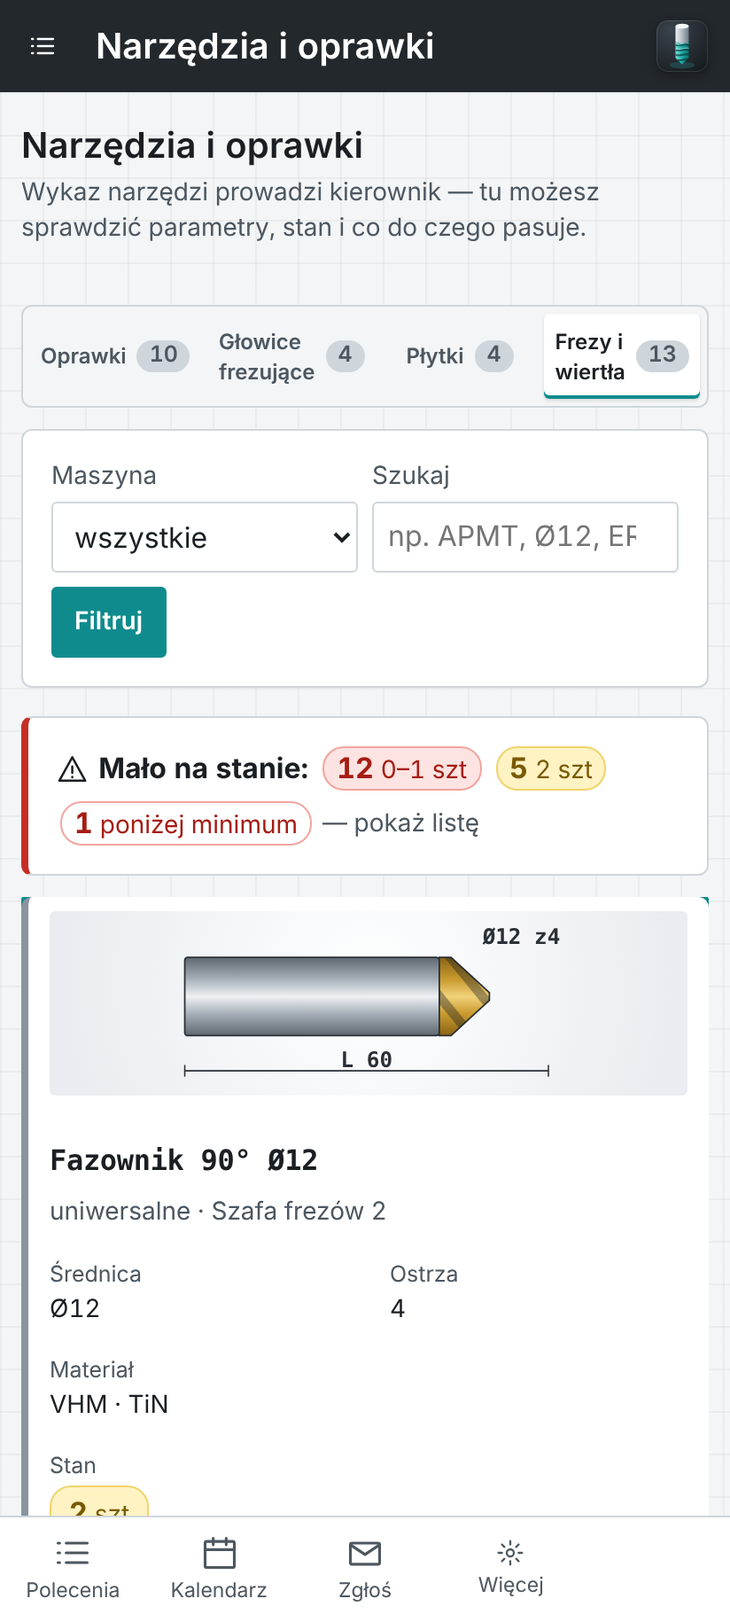
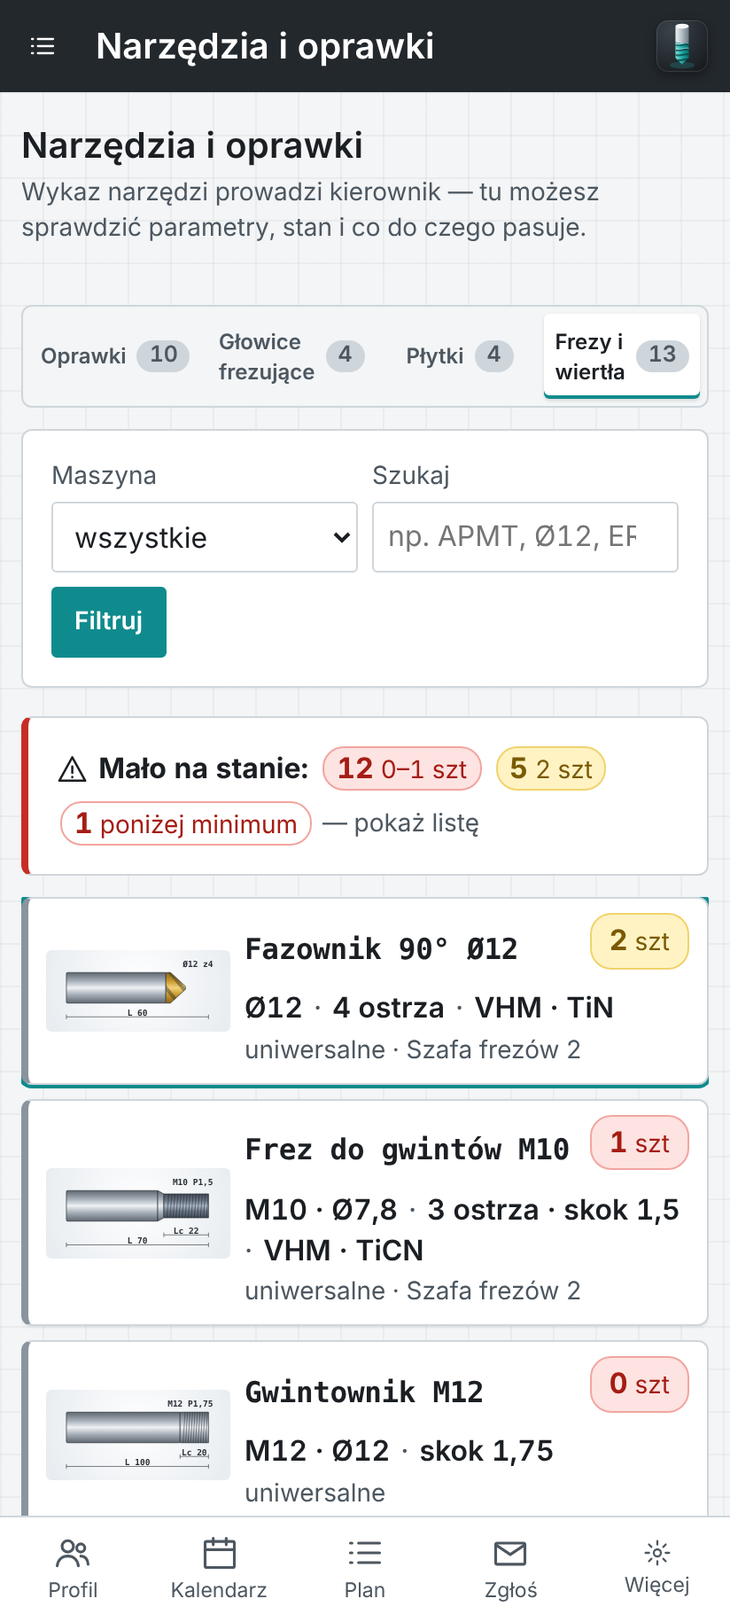
Narzędzia: zwarty wiersz (stan w rogu, dane w jednej linii); kolorowe symbole rodzaju zgłoszeń u programisty i kierownika (0.16.4)
Claude-Session: https://claude.ai/code/session_01Mgo9RDb6yKEqWF3PSmGbbJ

diff --git a/public/app.css b/public/app.css
@@ -620,22 +620,8 @@ figure.chart3d { max-width: none; } figure.chart3d .chart-box svg { max-height: 
 
 /* ---- Narzędzia: widok katalogowy (wiersz = narzędzie) ---- */
 .tl-cat-wrap { overflow-x: auto; }
-.tl-table { width: 100%; border-collapse: separate; border-spacing: 0 6px; font-size: var(--fs-sm); }
-.tl-table thead th { text-align: left; font-weight: 600; color: var(--c-ink-soft); font-size: var(--fs-xs); text-transform: uppercase; letter-spacing: .04em; padding: 0 var(--sp-3); }
-.tl-table tbody tr { background: var(--c-surface); cursor: pointer; box-shadow: 0 1px 2px rgba(0,0,0,.08); }
-.tl-table tbody tr:hover, .tl-table tbody tr:focus-visible { box-shadow: 0 0 0 2px var(--m-mid, var(--c-accent)); outline: none; }
-.tl-table tbody td { padding: var(--sp-2) var(--sp-3); vertical-align: middle; border-top: 1px solid var(--c-line); border-bottom: 1px solid var(--c-line); }
-.tl-table tbody td:first-child { border-left: 4px solid var(--m-mid, #8a949e); border-radius: var(--r-md) 0 0 var(--r-md); }
-.tl-table tbody td:last-child { border-right: 1px solid var(--c-line); border-radius: 0 var(--r-md) var(--r-md) 0; }
-.tl-table tr.tl-off { opacity: .55; }
-.tl-c-pic { width: 1%; }
 .tl-pic-row { display: flex; align-items: center; justify-content: center; padding: 4px 8px; border-radius: var(--r-sm); background: radial-gradient(circle at 50% 40%, #ffffff, #e9edf1 90%); color: #2a3036; }
-.tl-table.k-frez .tl-pic-row { min-width: 270px; }
 .tl-pic-row svg.tool-svg { height: auto; max-height: 96px; display: block; }
-.tl-table.k-oprawka .tl-pic-row svg { max-height: 92px; }
-.tl-c-name b { display: block; font-size: var(--fs-md); }
-.tl-c-name span { display: block; }
-.tl-c-st { text-align: right; white-space: nowrap; width: 1%; }
 .st { display: inline-flex; align-items: baseline; gap: 4px; padding: 3px 10px; border-radius: 12px; font-size: var(--fs-sm); background: #e5f4ea; color: #1d6b3a; border: 1px solid #b8e0c6; }
 .st b { font-size: 1.15em; }
 .st.st-red { background: #fde3e1; color: #a51d14; border-color: #f2a59f; }
@@ -657,22 +643,12 @@ figure.chart3d { max-width: none; } figure.chart3d .chart-box svg { max-height: 
 .tl-mini svg.tool-svg-h { max-height: 60px; }
 /* telefon: wiersz katalogu jako karta — rysunek na górze, dane w dwóch kolumnach, stan na końcu */
 @media (max-width: 760px) {
-  .tl-table, .tl-table tbody, .tl-table tr, .tl-table td { display: block; }
-  .tl-table thead { display: none; }
-  .tl-table tbody tr { display: grid; grid-template-columns: 1fr 1fr; border-radius: var(--r-md); border-left: 4px solid var(--m-mid, #8a949e); margin-bottom: var(--sp-2); }
-  .tl-table tbody td, .tl-table tbody td:first-child, .tl-table tbody td:last-child { border: 0; border-radius: 0; }
-  .tl-table td.tl-c-pic, .tl-table td.tl-c-name { grid-column: 1 / -1; width: auto; }
-  .tl-table.k-frez .tl-pic-row { min-width: 0; }
-  .tl-table td[data-l]:not(.tl-c-name)::before { content: attr(data-l); display: block; font-size: var(--fs-xs); color: var(--c-ink-soft); }
-  .tl-table td.tl-c-st { grid-column: 1 / -1; text-align: left; width: auto; border-top: 1px solid var(--c-line); }
 }
 details.tl-low { display: block; }
 details.tl-low summary { cursor: pointer; display: flex; flex-wrap: wrap; gap: 6px; align-items: center; list-style: none; }
 details.tl-low summary::-webkit-details-marker { display: none; }
 .tl-low-list { display: flex; flex-wrap: wrap; gap: 4px 10px; margin-top: var(--sp-2); }
 .st.st-min { background: transparent; color: #a51d14; border-color: #f2a59f; }
-.tl-c-name .tl-open { display: block; font-size: var(--fs-md); font-weight: 700; color: var(--c-ink); text-align: left; padding: 0; }
-.tl-c-name .tl-open:hover { color: var(--c-accent); }
 :root[data-theme="dark"] .st.st-min { background: transparent; color: #ffb4ad; border-color: #7a2a24; }
 :root[data-theme="dark"] .st-min { color: #ffb4ad; }
 @media (prefers-color-scheme: dark) {
@@ -701,21 +677,8 @@ details.tl-low summary::-webkit-details-marker { display: none; }
 :root[data-theme="dark"] .emp-balance.due b { color: #ffb066; }
 @media (prefers-color-scheme: dark) { :root:not([data-theme="light"]) .emp-balance.due b { color: #ffb066; } }
 /* katalog: dane wyraźniej niż rysunek */
-.tl-table tbody td[data-l]:not(.tl-c-name):not(.tl-c-st) { font-size: var(--fs-md); font-weight: 600; font-variant-numeric: tabular-nums; }
-.tl-table.k-frez .tl-pic-row { min-width: 196px; }
 .tl-pic-row svg.tool-svg { max-height: 76px; }
-.tl-table.k-oprawka .tl-pic-row svg { max-height: 80px; }
-.tl-c-name .tl-open { font-size: 1.05rem; }
-@media (max-width: 760px) {
-  /* telefon: wiersz poziomo — mały rysunek z lewej, dane z prawej */
-  .tl-table tbody tr { grid-template-columns: 96px 1fr 1fr; column-gap: 8px; align-items: start; }
-  .tl-table td.tl-c-pic { grid-column: 1; grid-row: 1 / span 4; padding-right: 0; }
-  .tl-table td.tl-c-name { grid-column: 2 / -1; }
-  .tl-table td.tl-c-st { grid-column: 2 / -1; border-top: 0; padding-top: 0; }
-  .tl-table .tl-pic-row { min-width: 0 !important; padding: 2px; }
-  .tl-table .tl-pic-row svg.tool-svg { width: 100%; max-height: 120px; }
-  .tl-table.k-frez td.tl-c-pic { grid-row: 1 / span 3; }
-}
+
 
 /* ---- Kalendarz: okienka szczegółów ---- */
 .ev-open { cursor: pointer; }
@@ -760,3 +723,37 @@ fieldset.lv-pick legend { font-size: var(--fs-sm); color: var(--c-ink-soft); mar
 .lv-opt.off { opacity: .45; cursor: not-allowed; filter: grayscale(.7); }
 .lv-opt.off .lv-txt .small { color: #a51d14; font-weight: 600; }
 .leave-sum.bad { border-left-color: #c62e25; background: color-mix(in srgb, #c62e25 10%, var(--c-surface)); }
+
+/* ---- Narzędzia: zwarty wiersz katalogowy (stan w prawym górnym rogu, dane w jednej linii) ---- */
+.tl-list { display: grid; grid-template-columns: repeat(auto-fill, minmax(min(100%, 520px), 1fr)); gap: var(--sp-2); }
+.tl-row { display: grid; grid-template-columns: auto 1fr; gap: var(--sp-3); align-items: center; padding: var(--sp-2) var(--sp-3); background: var(--c-surface);
+  border: 1px solid var(--c-line); border-left: 4px solid var(--m-mid, #8a949e); border-radius: var(--r-md); cursor: pointer; box-shadow: 0 1px 2px rgba(0,0,0,.06); min-width: 0; }
+.tl-row:hover { box-shadow: 0 0 0 2px var(--m-mid, var(--c-accent)); }
+.tl-row.tl-off { opacity: .55; }
+.tl-row .tl-pic-row { min-width: 0 !important; }
+.tl-list.k-frez .tl-pic-row { width: 176px; }
+.tl-list.k-glowica .tl-pic-row { width: 116px; }
+.tl-list.k-oprawka .tl-pic-row { width: 52px; }
+.tl-list.k-plytka .tl-pic-row { width: 64px; }
+.tl-row .tl-pic-row svg.tool-svg { width: 100%; height: auto; max-height: 70px; }
+.tl-list.k-oprawka .tl-pic-row svg.tool-svg { max-height: 84px; }
+.tl-main { display: grid; gap: 2px; min-width: 0; }
+.tl-top { display: flex; align-items: flex-start; justify-content: space-between; gap: var(--sp-2); }
+.tl-top .tl-open { font-size: 1.02rem; font-weight: 700; color: var(--c-ink); text-align: left; padding: 0; min-width: 0; overflow-wrap: anywhere; }
+.tl-top .st { flex: none; }
+.tl-spec { display: flex; flex-wrap: wrap; gap: 0 6px; font-weight: 600; font-variant-numeric: tabular-nums; }
+.tl-spec i { font-style: normal; color: var(--c-ink-soft); font-weight: 400; }
+.tl-top .tl-stock-wrap { display: grid; justify-items: end; gap: 2px; flex: none; }
+@media (max-width: 520px) {
+  .tl-row { gap: var(--sp-2); padding: 8px 10px; }
+  .tl-list.k-frez .tl-pic-row { width: 104px; }
+  .tl-list.k-glowica .tl-pic-row { width: 84px; }
+}
+/* symbol zgłoszenia w kolorze rodzaju */
+.req-cell { display: flex; gap: 10px; align-items: flex-start; }
+.req-badge { display: inline-flex; flex-direction: column; align-items: center; gap: 2px; flex: none; }
+.req-badge .kind-ico { display: inline-flex; align-items: center; justify-content: center; width: 34px; height: 34px; border-radius: 10px;
+  background: linear-gradient(160deg, color-mix(in srgb, var(--tone, #888) 30%, #fff), color-mix(in srgb, var(--tone, #888) 85%, #000)); box-shadow: 0 1px 3px rgba(0,0,0,.18), inset 0 1px 0 rgba(255,255,255,.35); }
+.req-badge .kind-ico svg { width: 18px !important; height: 18px !important; color: #fff; }
+.req-badge b { font-size: 10px; font-weight: 800; color: #fff; background: var(--tone); border-radius: 4px; padding: 0 4px; line-height: 1.5; }
+tr.req-row > td:first-child { box-shadow: inset 4px 0 0 var(--tone, transparent); }

diff --git a/public/views-tools.js b/public/views-tools.js
@@ -343,32 +343,38 @@ VIEWS.narzedzia = async (main) => {
   on('addTool', () => toolForm(kind, null, list));
   $$('[data-tool]', main).forEach(el => el.addEventListener('click', (e) => { e.preventDefault(); e.stopPropagation(); const t = byId.get(Number(el.dataset.tool)); if (t) toolDetail(t, byId); }));
   // cały wiersz klikalny myszą/palcem; z klawiatury — przycisk z nazwą (czytniki ekranu ogłaszają go jako przycisk)
-  $$('tr[data-row]', main).forEach(el => el.addEventListener('click', () => toolDetail(byId.get(Number(el.dataset.row)), byId)));
+  $$('.tl-row[data-row]', main).forEach(el => el.addEventListener('click', () => toolDetail(byId.get(Number(el.dataset.row)), byId)));
 };
 
 // Widok katalogowy: jedno narzędzie w wierszu — rysunek, najważniejsze dane, na końcu stan; reszta parametrów po kliknięciu
-const CATALOG_COLS = {
-  oprawka: [['Interfejs', p => p.interface], ['Rodzaj', p => HOLDER_LABEL[p.type] || p.type],
-    ['Zacisk / trzpień', p => (p.type === 'trzpieniowa' ? `trzpień Ø${mm(p.arbor)}` : p.clamp_min != null ? `Ø${mm(p.clamp_min)}${p.clamp_max && p.clamp_max !== p.clamp_min ? `–${mm(p.clamp_max)}` : ''}` : '')],
-    ['Wysięg', p => (p.gauge ? `${mm(p.gauge)} mm` : '')]],
-  glowica: [['Średnica', p => `Ø${mm(p.D)}`], ['Ostrza', p => mm(p.z)], ['Gniazdo płytki', p => p.insert_code || ''], ['Kąt', p => (p.lead ? `${mm(p.lead)}°` : '')]],
-  plytka: [['Kształt', p => p.shape || ''], ['Wielkość', p => `${mm(p.size)} mm${p.radius ? ` · r${mm(p.radius)}` : ''}`], ['Gatunek', p => p.grade || ''], ['Pokrycie', p => p.coating || '']],
-  frez: [['Średnica', p => (THREADED(p.type) && p.thread ? `${p.thread} · Ø${mm(p.D)}` : `Ø${mm(p.D)}`)],
-    ['Ostrza', p => (p.type === 'gwintownik' ? `skok ${mm(p.pitch)}` : `${mm(p.z)}${p.type === 'frez-gwintowy' && p.pitch ? ` · skok ${mm(p.pitch)}` : ''}`)],
-    ['Materiał', p => [p.material, p.coating].filter(Boolean).join(' · ')]],
+// Widok katalogowy, zwarty: rysunek z lewej; obok nazwa, a w tej samej linii po prawej stan (szt);
+// pod nazwą jedna linia z najważniejszymi danymi (np. Ø12 · 4 ostrza · VHM · TiN); reszta po kliknięciu
+const ostrza = (z) => {
+  if (!z) return '';
+  const n = Number(z), d = n % 10, h = n % 100;
+  return `${mm(z)} ${n === 1 ? 'ostrze' : d >= 2 && d <= 4 && !(h >= 12 && h <= 14) ? 'ostrza' : 'ostrzy'}`;
+};
+const fi = (D) => (D !== null && D !== undefined && D !== '' ? `Ø${mm(D)}` : '');
+const CATALOG_SPEC = {
+  oprawka: (p) => [p.interface, HOLDER_LABEL[p.type] || p.type, p.type === 'trzpieniowa' ? (p.arbor ? `trzpień Ø${mm(p.arbor)}` : '') : p.clamp_min != null ? `zacisk Ø${mm(p.clamp_min)}${p.clamp_max && p.clamp_max !== p.clamp_min ? `–${mm(p.clamp_max)}` : ''}` : '', p.gauge ? `wysięg ${mm(p.gauge)} mm` : ''],
+  glowica: (p) => [fi(p.D), ostrza(p.z), p.insert_code ? `płytki ${p.insert_code}` : '', p.lead ? `${mm(p.lead)}°` : ''],
+  plytka: (p) => [p.shape ? `kształt ${p.shape}` : '', p.size ? `${mm(p.size)} mm` : '', p.radius ? `r${mm(p.radius)}` : '', p.grade, p.coating],
+  frez: (p) => [THREADED(p.type) && p.thread ? [p.thread, fi(p.D)].filter(Boolean).join(' · ') : fi(p.D), p.type === 'gwintownik' ? (p.pitch ? `skok ${mm(p.pitch)}` : '') : [ostrza(p.z), p.type === 'frez-gwintowy' && p.pitch ? `skok ${mm(p.pitch)}` : ''].filter(Boolean).join(' · '), [p.material, p.coating].filter(Boolean).join(' · ')],
 };
 function toolCatalog(kind, items) {
-  const cols = CATALOG_COLS[kind];
-  const picW = kind === 'frez' ? 190 : kind === 'glowica' ? 120 : kind === 'oprawka' ? 44 : 56; // rysunek mniejszy — na pierwszym planie dane
-  return `<table class="tl-table k-${kind}"><thead><tr><th class="tl-c-pic">Rysunek</th><th>Nazwa</th>${cols.map(([l]) => `<th>${esc(l)}</th>`).join('')}<th class="tl-c-st">Stan</th></tr></thead>
-    <tbody>${items.map(t => {
-      const theme = t.machine_id ? machineTheme(S.boot.machines.find(m => m.id === t.machine_id)) : '';
-      return `<tr data-row="${t.id}" class="${theme ? `theme-${theme}` : 'tl-neutral'} ${t.active ? '' : 'tl-off'}">
-        <td class="tl-c-pic"><div class="tl-pic-row">${drawTool(t, { w: picW, horizontal: true })}</div></td>
-        <td class="tl-c-name" data-l="Nazwa"><button type="button" class="link tl-open mono" data-tool="${t.id}">${esc(t.name)}</button><span class="small muted">${[t.machine_id ? machineShort(t.machine_id) : 'uniwersalne', t.location, t.active ? '' : 'wycofane'].filter(Boolean).map(esc).join(' · ')}</span></td>
-        ${cols.map(([l, f]) => `<td data-l="${esc(l)}">${esc(f(t.params || {}) || '—')}</td>`).join('')}
-        <td class="tl-c-st" data-l="Stan">${stockTag(t)}</td></tr>`;
-    }).join('')}</tbody></table>`;
+  const picW = kind === 'frez' ? 170 : kind === 'glowica' ? 110 : kind === 'oprawka' ? 40 : 52;
+  return `<div class="tl-list k-${kind}">${items.map(t => {
+    const theme = t.machine_id ? machineTheme(S.boot.machines.find(m => m.id === t.machine_id)) : '';
+    const p = t.params || {};
+    const spec = CATALOG_SPEC[kind](p).filter(Boolean);
+    return `<article class="tl-row ${theme ? `theme-${theme}` : 'tl-neutral'} ${t.active ? '' : 'tl-off'}" data-row="${t.id}">
+      <div class="tl-pic-row">${drawTool(t, { w: picW, horizontal: true })}</div>
+      <div class="tl-main">
+        <div class="tl-top"><button type="button" class="link tl-open mono" data-tool="${t.id}">${esc(t.name)}</button><span class="tl-stock-wrap">${stockTag(t)}</span></div>
+        <div class="tl-spec">${spec.map(x => `<span>${esc(x)}</span>`).join('<i>·</i>') || '—'}</div>
+        <div class="small muted">${[t.machine_id ? machineShort(t.machine_id) : 'uniwersalne', t.location, t.active ? '' : 'wycofane'].filter(Boolean).map(esc).join(' · ')}</div>
+      </div></article>`;
+  }).join('')}</div>`;
 }
 
 function toolDetail(t, byId) {

diff --git a/public/views-requests.js b/public/views-requests.js
@@ -102,6 +102,17 @@ function leaveModes(code, sum) {
   return { days, hours };
 }
 
+// Symbol zgłoszenia w kolorze rodzaju — ten sam na liście programisty i u kierownika
+const REQ_TONE = { spoznienie: 'late', wyjscie: 'unpaid', odrobienie: 'train', inne: 'event', nieobecnosc: 'other' };
+function reqBadge(r) {
+  const code = r.wanted_code;
+  const tone = code ? leaveTone(code) : REQ_TONE[r.kind] || 'other';
+  const ic = code ? (LEAVE_CODES.includes(code) ? 'leave' : 'absence') : REQ_KIND[r.kind][1];
+  const short = code && LEAVE_META[code] ? LEAVE_META[code][0] : '';
+  return `<span class="req-badge tone-${tone}" title="${esc(code ? (WANTED_LABEL[code] || code) : REQ_KIND[r.kind][0])}"><span class="kind-ico">${icon(ic)}</span>${short ? `<b>${esc(short)}</b>` : ''}</span>`;
+}
+const reqTitle = (r) => (r.wanted_code ? (LEAVE_CODES.includes(r.wanted_code) ? 'Urlop' : 'Zwolnienie / nieobecność') : REQ_KIND[r.kind][0]);
+
 // ---------- Pracownik: „Zgłoś” ----------
 VIEWS.zglos = async (main) => {
   const year = Number(S.me.today.slice(0, 4));
@@ -143,10 +154,10 @@ VIEWS.zglos = async (main) => {
         <div class="form-error wide" role="alert"></div>
       </form></section>
       <section class="panel"><h3>Moje zgłoszenia</h3>${table([
-        { key: r => r, label: 'Zgłoszenie', fmt: r => `${icon(REQ_KIND[r.kind][1])} <b>${esc(LEAVE_CODES.includes(r.wanted_code) ? 'Urlop' : REQ_KIND[r.kind][0])}</b>${r.wanted_code ? ` ${leaveChip(r.wanted_code)}` : ''}<br><span class="small">${reqWhen(r)}</span>${r.note ? `<br><span class="small muted">${esc(r.note)}</span>` : ''}` },
+        { key: r => r, label: 'Zgłoszenie', fmt: r => `<div class="req-cell">${reqBadge(r)}<div><b>${esc(reqTitle(r))}</b>${r.wanted_code ? ` ${leaveChip(r.wanted_code)}` : ''}<br><span class="small">${reqWhen(r)}</span>${r.note ? `<br><span class="small muted">${esc(r.note)}</span>` : ''}</div></div>` },
         { key: r => r, label: 'Decyzja', fmt: r => `${tag(...REQ_STATUS[r.status])}${r.decision_note ? `<br><span class="small">${esc(r.decision_note)}</span>` : ''}${r.decided_at ? `<br><span class="small muted">${new Date(r.decided_at).toLocaleString('pl-PL', { timeZone: 'Europe/Warsaw' })}</span>` : ''}` },
         { key: r => r, label: '', fmt: r => r.status === 'nowe' ? `<button class="link" data-withdraw="${r.id}">Wycofaj</button>` : '' },
-      ], list, { empty: 'Nie masz jeszcze zgłoszeń.', rowClass: r => r.status === 'wycofane' ? 'row-cancel' : '' })}</section></div>`;
+      ], list, { empty: 'Nie masz jeszcze zgłoszeń.', rowClass: r => `req-row tone-${r.wanted_code ? leaveTone(r.wanted_code) : REQ_TONE[r.kind] || 'other'}${r.status === 'wycofane' ? ' row-cancel' : ''}` })}</section></div>`;
   let kind = null;
   const f = $('#reqF');
   $$('[data-kind]').forEach(b => b.onclick = () => {
@@ -254,13 +265,13 @@ async function localRequestsSection() {
   const list = await api('/requests');
   const html = `<section class="panel"><h3>Zgłoszenia pracowników</h3>${table([
     { key: r => r, label: 'Pracownik', fmt: r => person(r.employee_id) },
-    { key: r => r, label: 'Rodzaj', fmt: r => `${icon(REQ_KIND[r.kind][1])} ${esc(LEAVE_CODES.includes(r.wanted_code) ? 'Urlop' : REQ_KIND[r.kind][0])}${r.wanted_code ? `<br><span class="small">prośba: ${leaveChip(r.wanted_code)}</span>` : ''}` },
+    { key: r => r, label: 'Rodzaj', fmt: r => `<div class="req-cell">${reqBadge(r)}<div><b>${esc(reqTitle(r))}</b>${r.wanted_code ? `<br><span class="small">prośba: ${leaveChip(r.wanted_code)}</span>` : ''}</div></div>` },
     { key: r => r, label: 'Kiedy', fmt: r => reqWhen(r) },
     { key: 'note', label: 'Uwaga pracownika' },
     { key: r => new Date(r.created_at).toLocaleString('pl-PL', { timeZone: 'Europe/Warsaw' }), label: 'Zgłoszono' },
     { key: r => r, label: 'Status', fmt: r => `${tag(...REQ_STATUS[r.status])}${r.decision_note ? `<br><span class="small">${esc(r.decision_note)}</span>` : ''}${r.decided_by_name ? `<br><span class="small muted">${esc(r.decided_by_name)}</span>` : ''}${r.result_ref ? `<br><span class="small muted">wpis: ${esc(r.result_ref)}</span>` : ''}` },
     { key: r => r, label: '', fmt: r => r.status === 'nowe' && isAdmin() ? `<button data-racc="${r.id}" class="primary">Przyjmij</button> <button data-rrej="${r.id}" class="link">Odrzuć</button>` : '' },
-  ], list, { empty: 'Brak zgłoszeń.', rowClass: r => r.status === 'wycofane' ? 'row-cancel' : '' })}</section>`;
+  ], list, { empty: 'Brak zgłoszeń.', rowClass: r => `req-row tone-${r.wanted_code ? leaveTone(r.wanted_code) : REQ_TONE[r.kind] || 'other'}${r.status === 'wycofane' ? ' row-cancel' : ''}` })}</section>`;
   const bind = () => {
     $$('[data-racc]').forEach(b => b.onclick = () => requestAcceptForm(list.find(r => r.id === Number(b.dataset.racc))));
     $$('[data-rrej]').forEach(b => b.onclick = () => openForm({

diff --git a/public/sw.js b/public/sw.js
@@ -2,7 +2,7 @@
 // Zasada prywatności: w pamięci telefonu przechowywany jest WYŁĄCZNIE szkielet aplikacji (HTML/CSS/JS/ikony).
 // Odpowiedzi API (/api/*) — dane osobowe, absencje, rozliczenia — nigdy nie są buforowane.
 'use strict';
-const VERSION = 'cnc-team-shell-v31';
+const VERSION = 'cnc-team-shell-v32';
 const SHELL = [
   '/', '/index.html', '/tokens.css', '/app.css', '/icons.js', '/brand.js', '/charts.js', '/ui.js', '/app.js', '/views-people.js', '/views-projects.js',
   '/views-reports.js', '/views-requests.js', '/views-analytics.js', '/views-bundles.js', '/views-tools.js', '/views-plan.js', '/pwa.js', '/manifest.webmanifest', '/favicon.svg', '/icons/icon-192.png', '/icons/icon-512.png',

diff --git a/scripts/screenshots-tools.py b/scripts/screenshots-tools.py
@@ -1,4 +1,4 @@
-"""Zrzuty: Narzędzia i oprawki (rundy 18–22). Użycie: python scripts/screenshots-tools.py http://127.0.0.1:3000 docs/screenshots — kod 1 przy błędach."""
+"""Zrzuty: Narzędzia i oprawki (rundy 18–26). Użycie: python scripts/screenshots-tools.py http://127.0.0.1:3000 docs/screenshots"""
 import sys
 from playwright.sync_api import sync_playwright
 base, out = sys.argv[1], sys.argv[2]
@@ -20,7 +20,7 @@ with sync_playwright() as p:
     for k, n in [("oprawka", "110-narzedzia-oprawki"), ("glowica", "111-narzedzia-glowice"), ("plytka", "112-narzedzia-plytki"), ("frez", "113-narzedzia-frezy")]:
         shot(pg, n, f"#/narzedzia?rodzaj={k}")
     pg.goto(base + "/#/narzedzia?rodzaj=glowica"); pg.wait_for_timeout(500)
-    pg.click("tr[data-row] >> nth=0"); pg.wait_for_selector("dialog[open]"); shot(pg, "114-narzedzia-szczegoly", full=False)
+    pg.click(".tl-row[data-row] >> nth=0"); pg.wait_for_selector("dialog[open]"); shot(pg, "114-narzedzia-szczegoly", full=False)
     pg.click("dialog[open] [data-act=edit]"); pg.wait_for_selector("dialog[open] .tl-preview svg"); shot(pg, "115-narzedzia-edycja", full=False)
     pg.fill("dialog[open] input[name=location]", "Szafa G / półka 5"); pg.fill("dialog[open] input[name=reason]", "przeniesiona"); pg.click("dialog[open] button[type=submit]"); pg.wait_for_timeout(800)
     if pg.locator("dialog[open]").count(): errors.append("edycja nie zapisała: " + pg.inner_text("dialog[open] .form-error"))
@@ -31,12 +31,12 @@ with sync_playwright() as p:
     pg.dispatch_event("dialog[open] form", "change"); pg.wait_for_timeout(200); shot(pg, "117-narzedzia-nowy-podglad", full=False)
     pg.click("dialog[open] button[type=submit]"); pg.wait_for_timeout(800)
     if pg.locator("dialog[open]").count(): errors.append("dodanie nie zapisało: " + pg.inner_text("dialog[open] .form-error"))
-    pg.goto(base + "/#/narzedzia?rodzaj=frez&szukaj=szyjka"); pg.wait_for_timeout(500); pg.click("tr[data-row] >> nth=0"); pg.wait_for_selector("dialog[open]"); shot(pg, "118-narzedzia-frez-wymiary", full=False)
+    pg.goto(base + "/#/narzedzia?rodzaj=frez&szukaj=szyjka"); pg.wait_for_timeout(500); pg.click(".tl-row[data-row] >> nth=0"); pg.wait_for_selector("dialog[open]"); shot(pg, "118-narzedzia-frez-wymiary", full=False)
     pg.click("dialog[open] [data-act=edit]"); pg.wait_for_selector("dialog[open] .tl-preview svg"); shot(pg, "119-narzedzia-frez-formularz", full=False)
     pg.locator("dialog[open] [data-f=holder_ids]").scroll_into_view_if_needed(); pg.wait_for_timeout(200); shot(pg, "120-narzedzia-frez-oprawki", full=False)
     if pg.locator("dialog[open] input[name=holder_ids]").count() < 5: errors.append("brak listy oprawek w formularzu frezu")
     if pg.locator("dialog[open] input[name=holder_ids]:checked").count() != 1: errors.append("zaznaczone przypisanie nie wczytane")
-    pg.goto(base + "/#/narzedzia?rodzaj=frez&szukaj=gwint"); pg.reload(); pg.wait_for_selector("tr[data-row]"); pg.wait_for_timeout(400); shot(pg, "121-narzedzia-gwintowniki", full=False)
+    pg.goto(base + "/#/narzedzia?rodzaj=frez&szukaj=gwint"); pg.reload(); pg.wait_for_selector(".tl-row[data-row]"); pg.wait_for_timeout(400); shot(pg, "121-narzedzia-gwintowniki", full=False)
     pg.click("#addTool"); pg.wait_for_selector("dialog[open]")
     pg.fill("dialog[open] input[name=name]", "Gwintownik M12"); pg.select_option("dialog[open] select[name=p_type]", "gwintownik"); pg.wait_for_timeout(150)
     if pg.locator("dialog[open] [data-f=p_z]").is_visible(): errors.append("gwintownik: pole liczby ostrzy widoczne")
@@ -47,6 +47,9 @@ with sync_playwright() as p:
     ctx.close()
     ctx, pg = mk(b, True); login(pg, "adam")
     shot(pg, "116-narzedzia-programista-telefon", "#/narzedzia?rodzaj=frez", full=False)
+    shot(pg, "116b-tel-oprawki", "#/narzedzia?rodzaj=oprawka", full=False)
+    shot(pg, "116c-tel-glowice", "#/narzedzia?rodzaj=glowica", full=False)
+    shot(pg, "116d-tel-plytki", "#/narzedzia?rodzaj=plytka", full=False)
     if pg.locator("#addTool").count(): errors.append("programista widzi przycisk dodawania")
     if pg.locator('a[data-nav="narzedzia"]').count() == 0: errors.append("brak w menu programisty")
     ctx.close(); b.close()

diff --git a/scripts/screenshots-zgloszenia.py b/scripts/screenshots-zgloszenia.py
@@ -1,0 +1,16 @@
+import sys
+from playwright.sync_api import sync_playwright
+base, out = sys.argv[1], sys.argv[2]; errors=[]
+with sync_playwright() as p:
+    b=p.chromium.launch()
+    for login, mobile, name, h in [("adam", True, "150-tel-moje-zgloszenia", "#/zglos"), ("kierownik", False, "151-kierownik-zgloszenia", "#/zgloszenia")]:
+        ctx=b.new_context(viewport={"width":412,"height":915},device_scale_factor=2,is_mobile=True,has_touch=True,locale="pl-PL") if mobile else b.new_context(viewport={"width":1440,"height":1000},locale="pl-PL")
+        pg=ctx.new_page(); pg.on("pageerror",lambda e: errors.append(str(e)))
+        pg.goto(base+"/"); pg.fill("input[name=login]",login); pg.fill("input[name=password]","demo-cnc-2026"); pg.click("button[type=submit]"); pg.wait_for_selector("main")
+        pg.goto(base+"/"+h); pg.wait_for_timeout(900)
+        if pg.locator(".req-badge").count()==0: errors.append("brak symboli: "+login)
+        if mobile: pg.locator("text=Moje zgłoszenia").scroll_into_view_if_needed(); pg.wait_for_timeout(200); pg.screenshot(path=f"{out}/{name}.png")
+        else: pg.screenshot(path=f"{out}/{name}.png", full_page=True)
+        ctx.close()
+    b.close()
+print("\n".join(errors) or "OK")

diff --git a/docs/TESTS.md b/docs/TESTS.md
@@ -94,6 +94,9 @@ Zrzuty: `docs/screenshots/50…66` (kierownik, pracownik na komputerze i telefon
 ### Runda 25 — menu programisty, prośba o urlop / zwolnienie (13.10.2026)
 **66 / 66 zaliczonych.** Menu programisty: Mój profil, Kalendarz, Plan pracy, Zgłoś kierownikowi, Narzędzia i oprawki, Moje konto. „Zgłoś”: zamiast „Nieobecność” — „Urlop / zwolnienie” ze wszystkimi rodzajami jako kolorowe karty (kolory jak w profilu), przy każdym ile zostało; wykorzystane wyszarzone i niedostępne, ponad pozostałą pulę nie da się wysłać; dni albo godziny zgodnie z jednostką rodzaju (SW / art. 188 — jednostka ustalona po pierwszym użyciu), limity na rok z daty początku. Kafelki z grafiką w kolorach kalendarza; spóźnienie — osobny kolor. Przegląd niezależny: 6 uwag, poprawione. Skrypt `scripts/screenshots-r24.py` sprawdza to klikaniem (UŻ ponad limit, wezwanie tylko w godzinach, krew tylko w dniach, limity 2027). Zrzuty `145`, `147`, `148`.
 
+### Runda 26 — zwarty katalog narzędzi, symbole zgłoszeń (13.10.2026)
+**66 / 66 zaliczonych** (zmiany w interfejsie). Narzędzia: wiersz z rysunkiem z lewej, nazwą i stanem w prawym górnym rogu, pod spodem jedna linia danych (np. Ø12 · 4 ostrza · VHM · TiN); tak samo oprawki, głowice i płytki. Zgłoszenia: kolorowy symbol rodzaju (jak na kafelkach i w kalendarzu) i pasek koloru w wierszu — u programisty („Moje zgłoszenia”) i u kierownika. Przegląd niezależny: 3 uwagi (ostrzeżenie „poniżej minimum”, odmiana „ostrza”, puste wartości), poprawione. Zrzuty `113`, `116`, `150`, `151`.
+
 ## Pokrycie wymaganych scenariuszy
 
 | Wymagany scenariusz | Test (plik → nazwa) |
